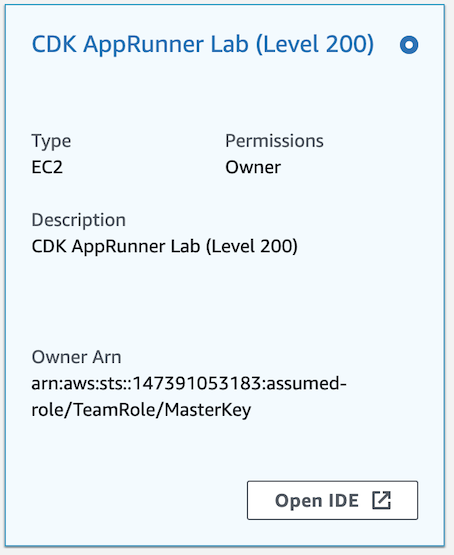
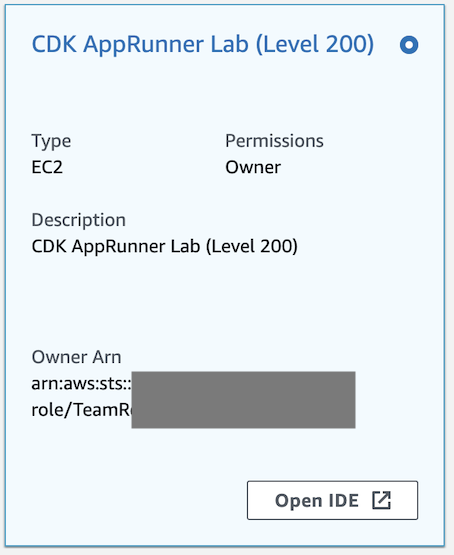
update image and resize

diff --git a/README.md b/README.md
@@ -37,7 +37,7 @@ To access Cloud9 search for `Cloud9` in the AWS Console and click on Cloud9.
 
 Under `Your environments`, open the `CDK AppRunner Lab (Level 200)` Cloud9 instance by clicking on Open IDE
 
-<img src="https://github.com/aws-samples/cdk-apprunner-ecr/blob/main/assets/cdk_apprunner_cloud9.png?raw=true"/>
+<img src="https://github.com/aws-samples/cdk-apprunner-ecr/blob/main/assets/cdk_apprunner_cloud9.png?raw=true" width="50%"/>
 
 1. Clean up any residual activities to return to a clean state.
 ```
